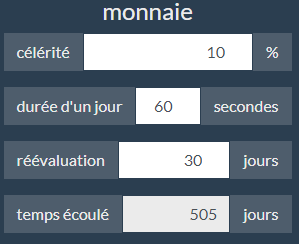
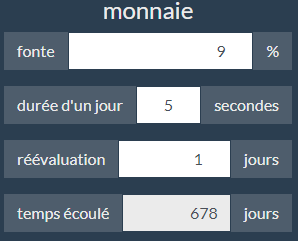
born c

diff --git a/public/admin.html b/public/admin.html
@@ -47,7 +47,7 @@
                         <t :c="ln" ln="en">melting</t>
                         <t :c="ln" ln="fr">fonte</t>
                     </label>
-                    <input id="currencyCelerity" v-model="editCurrency.c" type="number" class="form-control text-right"
+                    <input id="currencyCelerity" v-model="editCurrency.c" type="number" min="0" max="100" class="form-control text-right"
                         :class="{'bg-primary': editCurrency.c != currency.c}">
                     <span class="input-group-text">%</span>
                 </div>

diff --git a/fune.js b/fune.js
@@ -73,8 +73,12 @@ app.get('/currency', (req, res) => {
 
 app.patch('/currency', async (req, res) => {
     currency = Object.assign(currency, req.body)
-    await storage.setItem('currency', currency)
-    res.status(200).json(currency)
+    if (currency.c < 0  || currency.c > 100) {
+        res.status(400).send()
+    } else {
+        await storage.setItem('currency', currency)
+        res.status(200).json(currency)
+    }
 })
 
 /* 

diff --git a/readme.md b/readme.md
@@ -7,9 +7,8 @@
 
 a crëator account create a new one Ü (the Ünit of the fÜne currency) by day
 
-old created **Ünits** melt **celerity** % per **revaluation period**
+old created **Ünits** melt a given percentage per **revaluation period**
 
-that's all fölks !
 
 ## Installation
 
@@ -22,7 +21,7 @@ Open shell in project folder and type
 ```bash
 > npm install
 
-> node ./index.js
+> node ./fune.js
 ```
 
 A web server will start at localhost:80, go to http://localhost to create your first crëator account or go to http://localhost/admin.html to manage the currency and accounts
